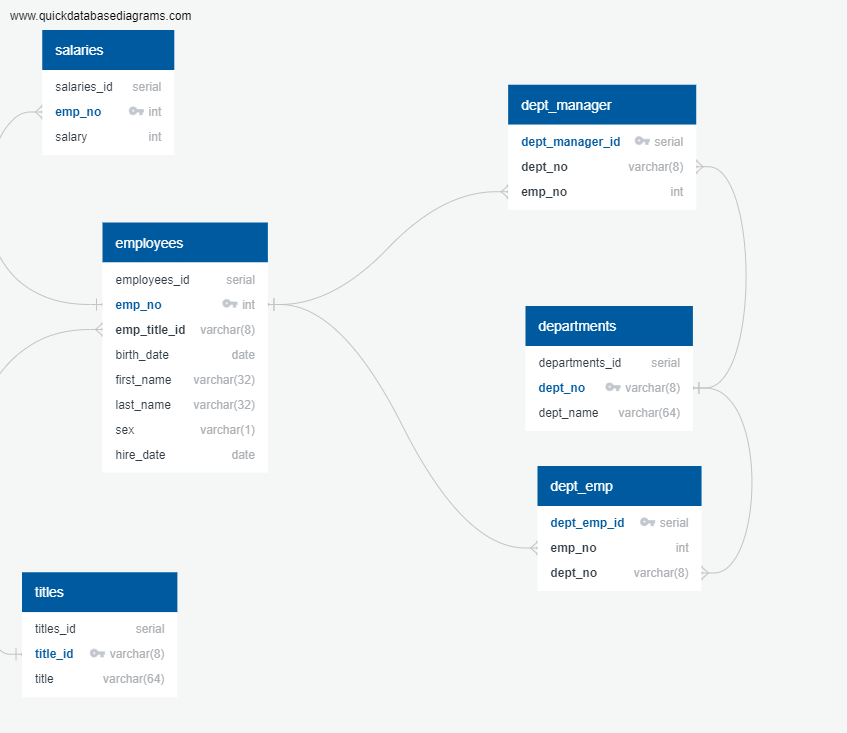
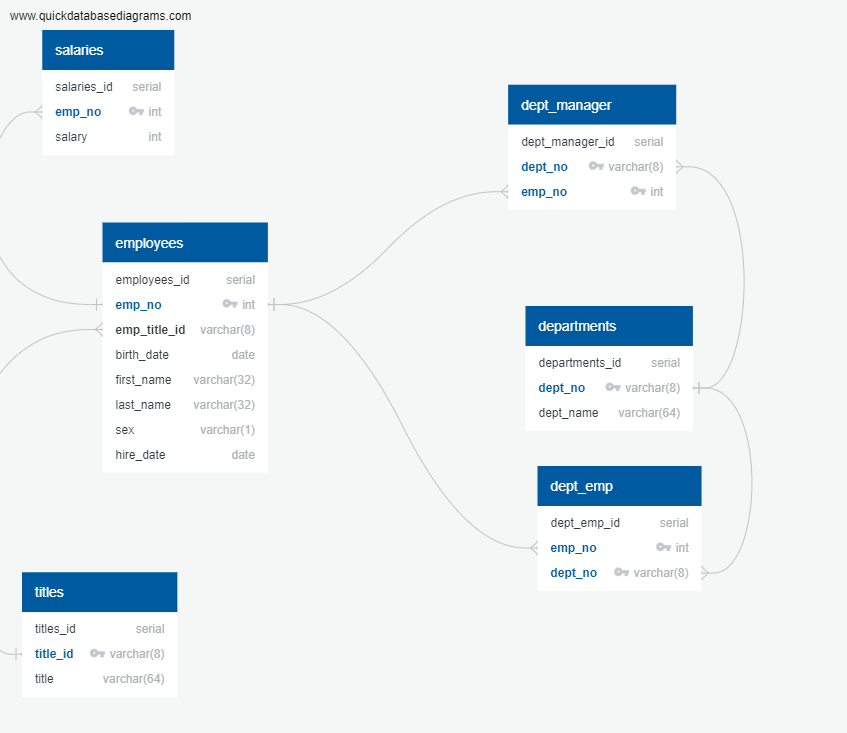
Updated with composite keys

diff --git a/README.md b/README.md
@@ -7,6 +7,6 @@ The following resources were referenced to complete this challenge:
 3. Postgres data types - https://www.postgresql.org/docs/current/datatype.html
 4. Oracle sysdate Postgres equivalent - https://stackoverflow.com/questions/16960432/what-is-postgresql-equivalent-of-sysdate-from-oracle
 5. Postgres foreign key constraint - https://www.postgresqltutorial.com/postgresql-tutorial/postgresql-foreign-key/
-
+6. Composite key - Instructor Eli Rosenberg covered this during class
 
 
